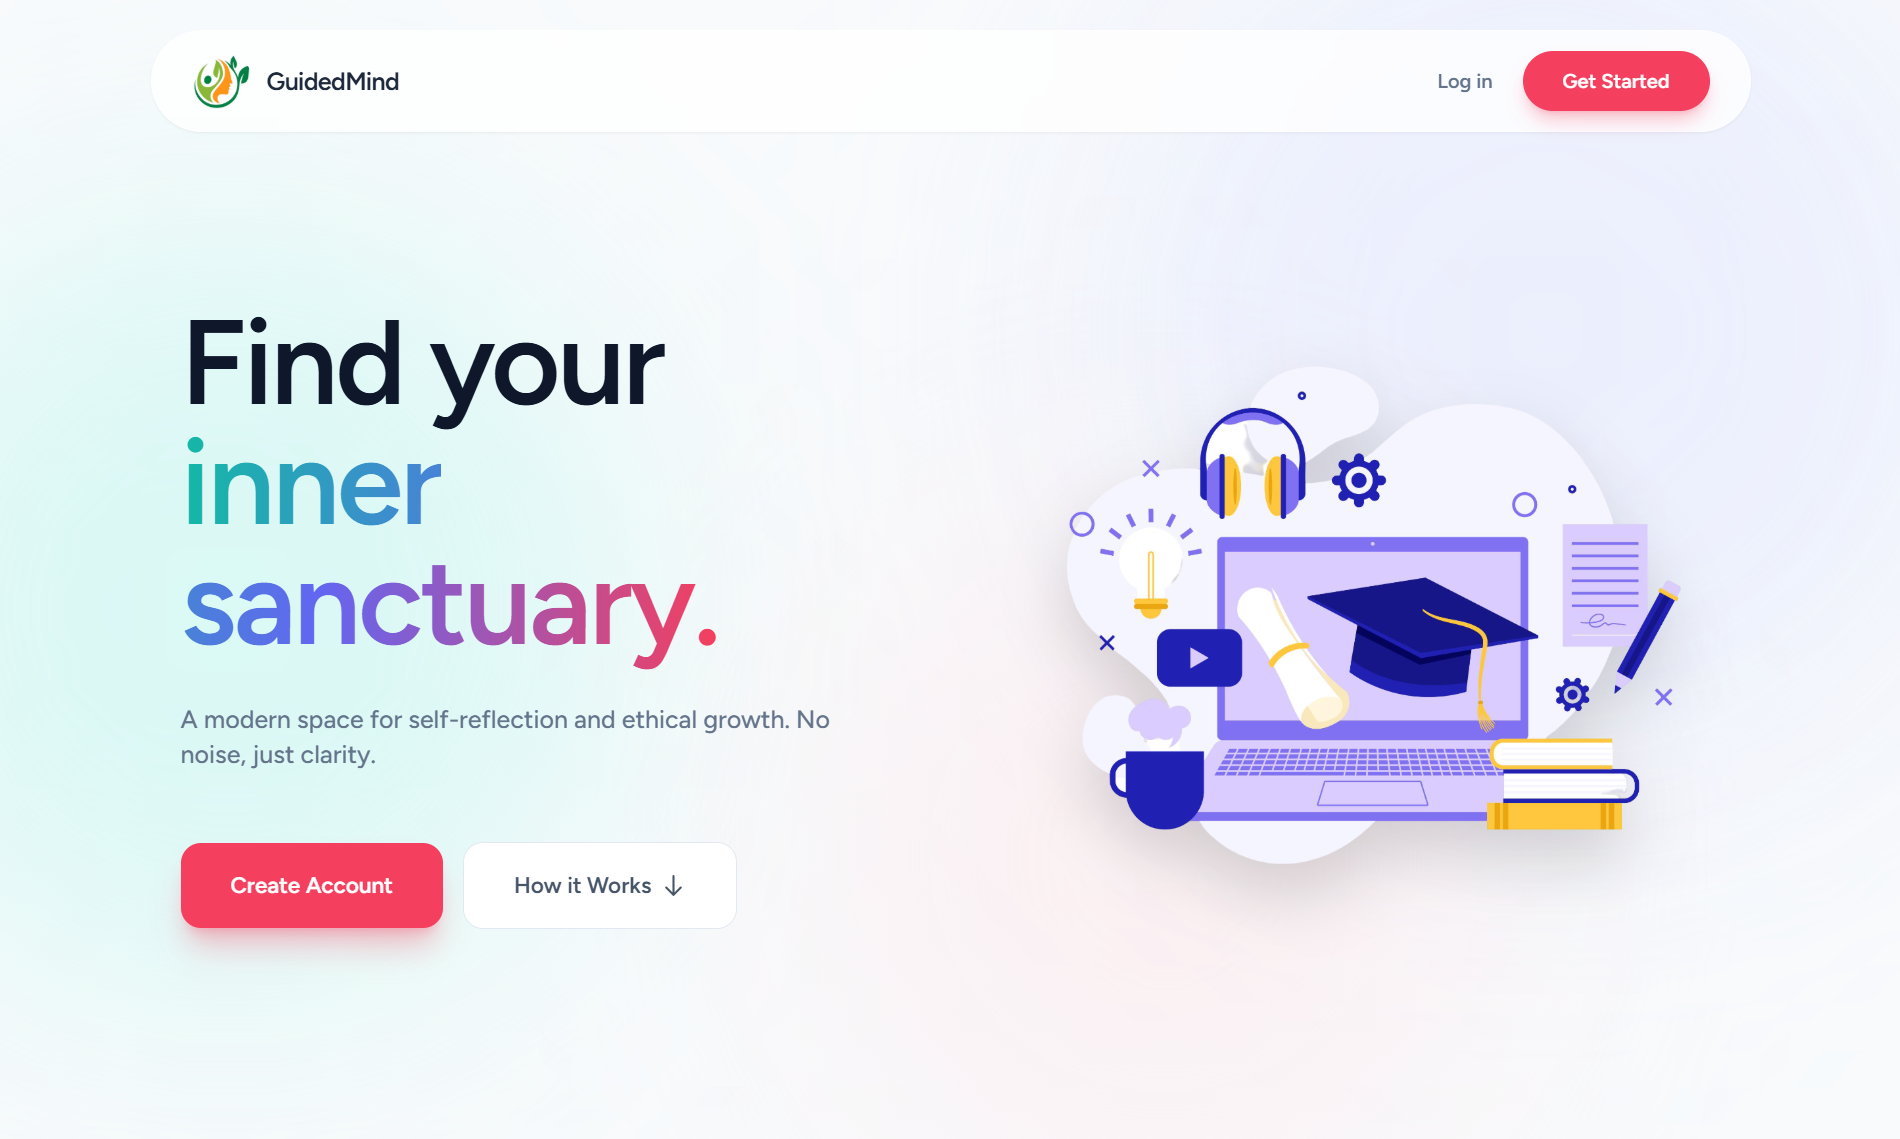
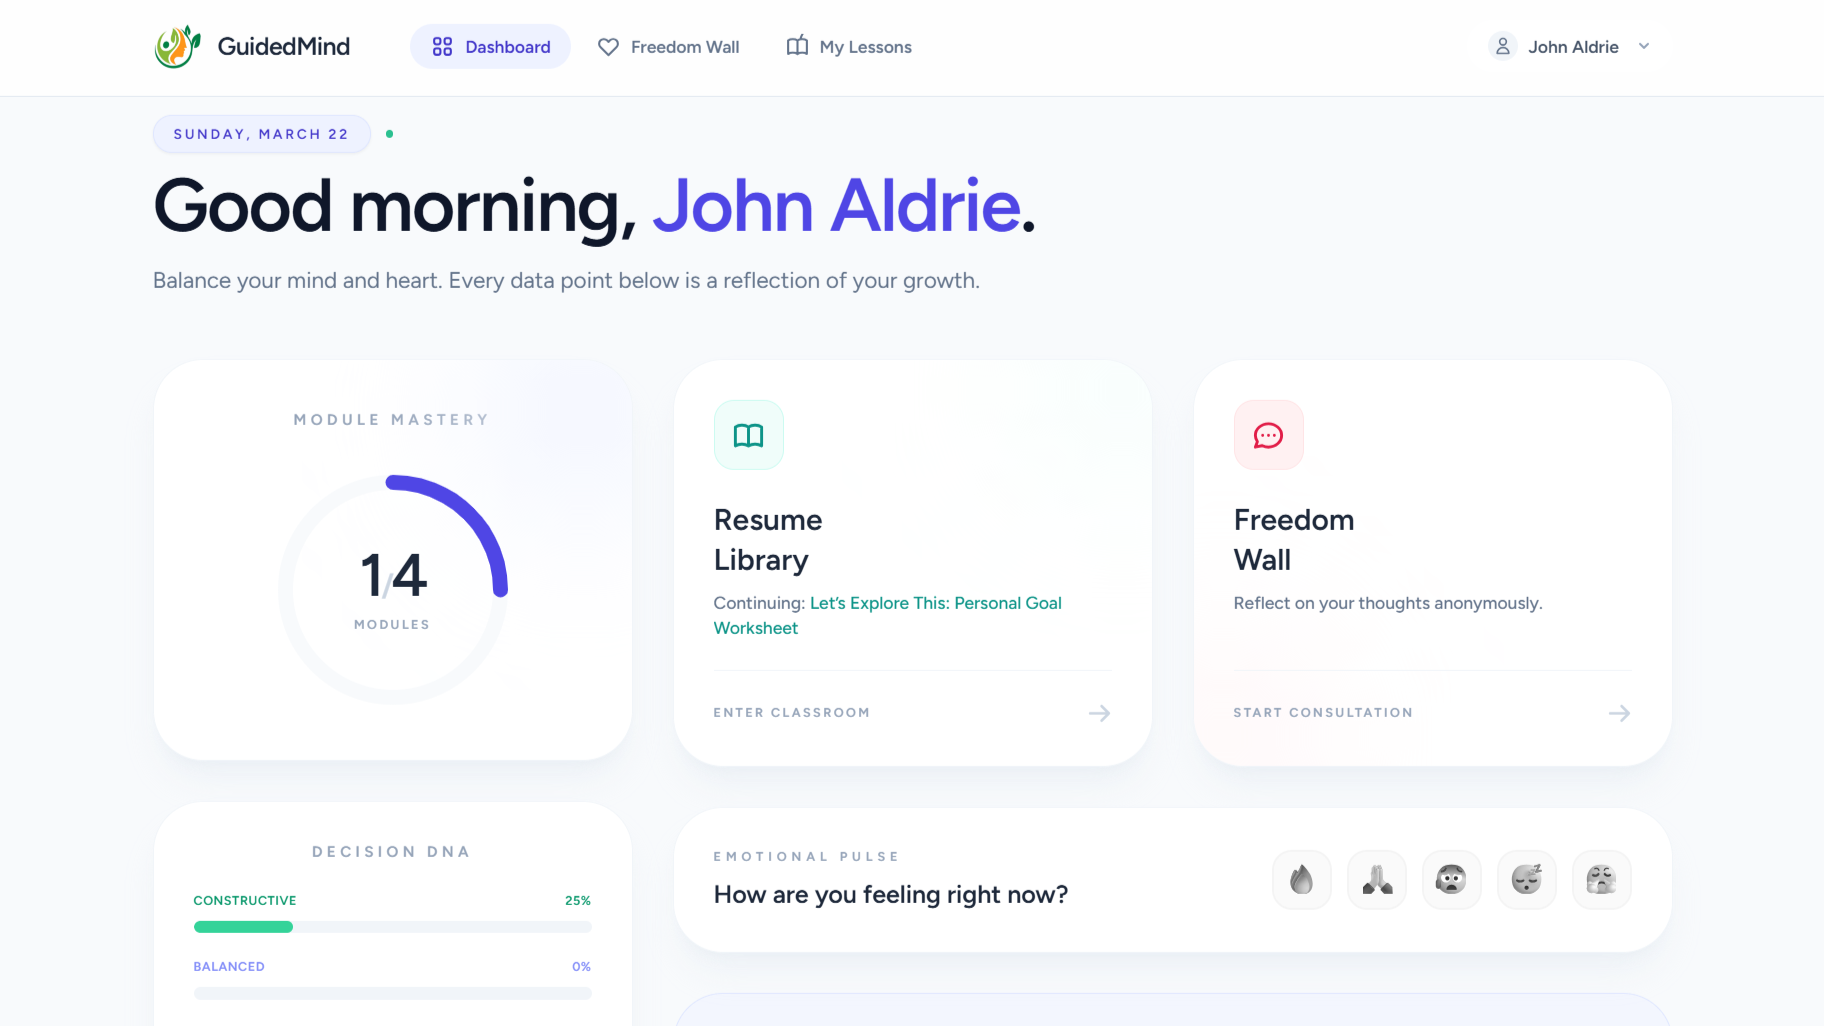
feat: current updates and polish

diff --git a/index.html b/index.html
@@ -422,7 +422,8 @@
 
         .cover-actions {
             display: flex;
-            flex-direction: column;  /* stack full-width on mobile */
+            flex-direction: column;
+            /* stack full-width on mobile */
             gap: 0;
             margin-top: 1.75rem;
             border-top: 1px solid var(--rule);
@@ -719,9 +720,11 @@
 
             .portrait img {
                 width: 100%;
-                flex: 1;               /* grow to fill remaining space */
+                flex: 1;
+                /* grow to fill remaining space */
                 min-height: 28rem;
-                height: 0;             /* flex handles height, not intrinsic size */
+                height: 0;
+                /* flex handles height, not intrinsic size */
                 aspect-ratio: unset;
                 object-fit: cover;
                 object-position: top left;
@@ -1071,7 +1074,8 @@
 
         @media (min-width: 860px) {
             .proj-card {
-                grid-template-columns: 0.7fr 1.3fr;  /* smaller image, larger text */
+                grid-template-columns: 0.7fr 1.3fr;
+                /* smaller image, larger text */
             }
 
             .proj-card:nth-child(even) {
@@ -1890,7 +1894,8 @@
                         <div class="proj-copy">
                             <div class="proj-no">No. 01 — Web application</div>
                             <h3 class="family-title">Tourism Booking System</h3>
-                            <p>End-to-end booking for multi-stop tours and local operators. Handles scheduling, payments, role-based dashboards, and operator reporting in one system.</p>
+                            <p>End-to-end booking for multi-stop tours and local operators. Handles scheduling,
+                                payments, role-based dashboards, and operator reporting in one system.</p>
                             <div class="tags"><span>Laravel 11</span><span>Vue.js 3</span><span>MySQL</span></div>
                             <div class="read-more">Open the feature →</div>
                         </div>
@@ -1903,7 +1908,8 @@
                         <div class="proj-copy">
                             <div class="proj-no">No. 02 — Education</div>
                             <h3 class="family-title">GuidedMind</h3>
-                            <p>AI-assisted student progress with guidance for teachers and students. Tracks performance, flags at-risk learners, and surfaces actionable insights per class.</p>
+                            <p>AI-assisted student progress with guidance for teachers and students. Tracks performance,
+                                flags at-risk learners, and surfaces actionable insights per class.</p>
                             <div class="tags"><span>Laravel 10+</span><span>Vue.js 3</span><span>Inertia.js</span></div>
                             <div class="read-more">Open the feature →</div>
                         </div>
@@ -1916,7 +1922,8 @@
                         <div class="proj-copy">
                             <div class="proj-no">No. 03 — Field operations</div>
                             <h3 class="family-title">Sales Mapping System</h3>
-                            <p>Live client locations, analytics, automated PDF reporting. Field agents pin visits on a Leaflet map; managers pull coverage reports with one click.</p>
+                            <p>Live client locations, analytics, automated PDF reporting. Field agents pin visits on a
+                                Leaflet map; managers pull coverage reports with one click.</p>
                             <div class="tags"><span>Laravel</span><span>Leaflet.js</span><span>Alpine.js</span></div>
                             <div class="read-more">Open the feature →</div>
                         </div>
@@ -1929,7 +1936,8 @@
                         <div class="proj-copy">
                             <div class="proj-no">No. 04 — Retail</div>
                             <h3 class="family-title">POS &amp; Inventory</h3>
-                            <p>Barcode POS, live stock, sales analytics for grocery floors. Handles transactions, returns, reorder alerts, and daily sales summaries.</p>
+                            <p>Barcode POS, live stock, sales analytics for grocery floors. Handles transactions,
+                                returns, reorder alerts, and daily sales summaries.</p>
                             <div class="tags"><span>Laravel</span><span>React</span><span>Inertia.js</span></div>
                             <div class="read-more">Open the feature →</div>
                         </div>
@@ -1942,7 +1950,8 @@
                         <div class="proj-copy">
                             <div class="proj-no">No. 05 — IoT &amp; safety</div>
                             <h3 class="family-title">GasGuard</h3>
-                            <p>ESP32 leak detection, live dashboard, instant alerts. Monitors LPG levels in real time and pushes SMS notifications before thresholds are breached.</p>
+                            <p>ESP32 leak detection, live dashboard, instant alerts. Monitors LPG levels in real time
+                                and pushes SMS notifications before thresholds are breached.</p>
                             <div class="tags"><span>ESP32</span><span>C++ (Arduino)</span><span>PHP</span></div>
                             <div class="read-more">Open the feature →</div>
                         </div>
@@ -1955,7 +1964,8 @@
                         <div class="proj-copy">
                             <div class="proj-no">No. 06 — Healthcare</div>
                             <h3 class="family-title">School Clinic System</h3>
-                            <p>Triage, records, and medicine inventory for KCCF. School nurse logs consultations, tracks student health history, and monitors medicine stock levels.</p>
+                            <p>Triage, records, and medicine inventory for KCCF. School nurse logs consultations, tracks
+                                student health history, and monitors medicine stock levels.</p>
                             <div class="tags"><span>PHP</span><span>MySQL</span><span>JavaScript</span></div>
                             <div class="read-more">Open the feature →</div>
                         </div>
@@ -1968,7 +1978,8 @@
                         <div class="proj-copy">
                             <div class="proj-no">No. 07 — IoT</div>
                             <h3 class="family-title">AirSafe Nasugbu</h3>
-                            <p>Air quality and heat index across sensors, maps, and roles. Multi-node ESP32 network feeds a live Leaflet dashboard with public and admin views.</p>
+                            <p>Air quality and heat index across sensors, maps, and roles. Multi-node ESP32 network
+                                feeds a live Leaflet dashboard with public and admin views.</p>
                             <div class="tags"><span>Laravel 12</span><span>React 18</span><span>Leaflet.js</span></div>
                             <div class="read-more">Open the feature →</div>
                         </div>
@@ -2006,7 +2017,7 @@
                         </a>
                         <a href="https://www.facebook.com/aldrie.bqrn" target="_blank" rel="noopener noreferrer">
                             <span class="k">Facebook</span>
-                            <span class="v">Aldrie Baquiran</span>
+                            <span class="v">John Aldrie Baquiran</span>
                         </a>
                         <a href="https://maps.google.com/?q=Bgry.+Papaya,+Nasugbu,+Batangas,+Philippines"
                             target="_blank" rel="noopener noreferrer">
